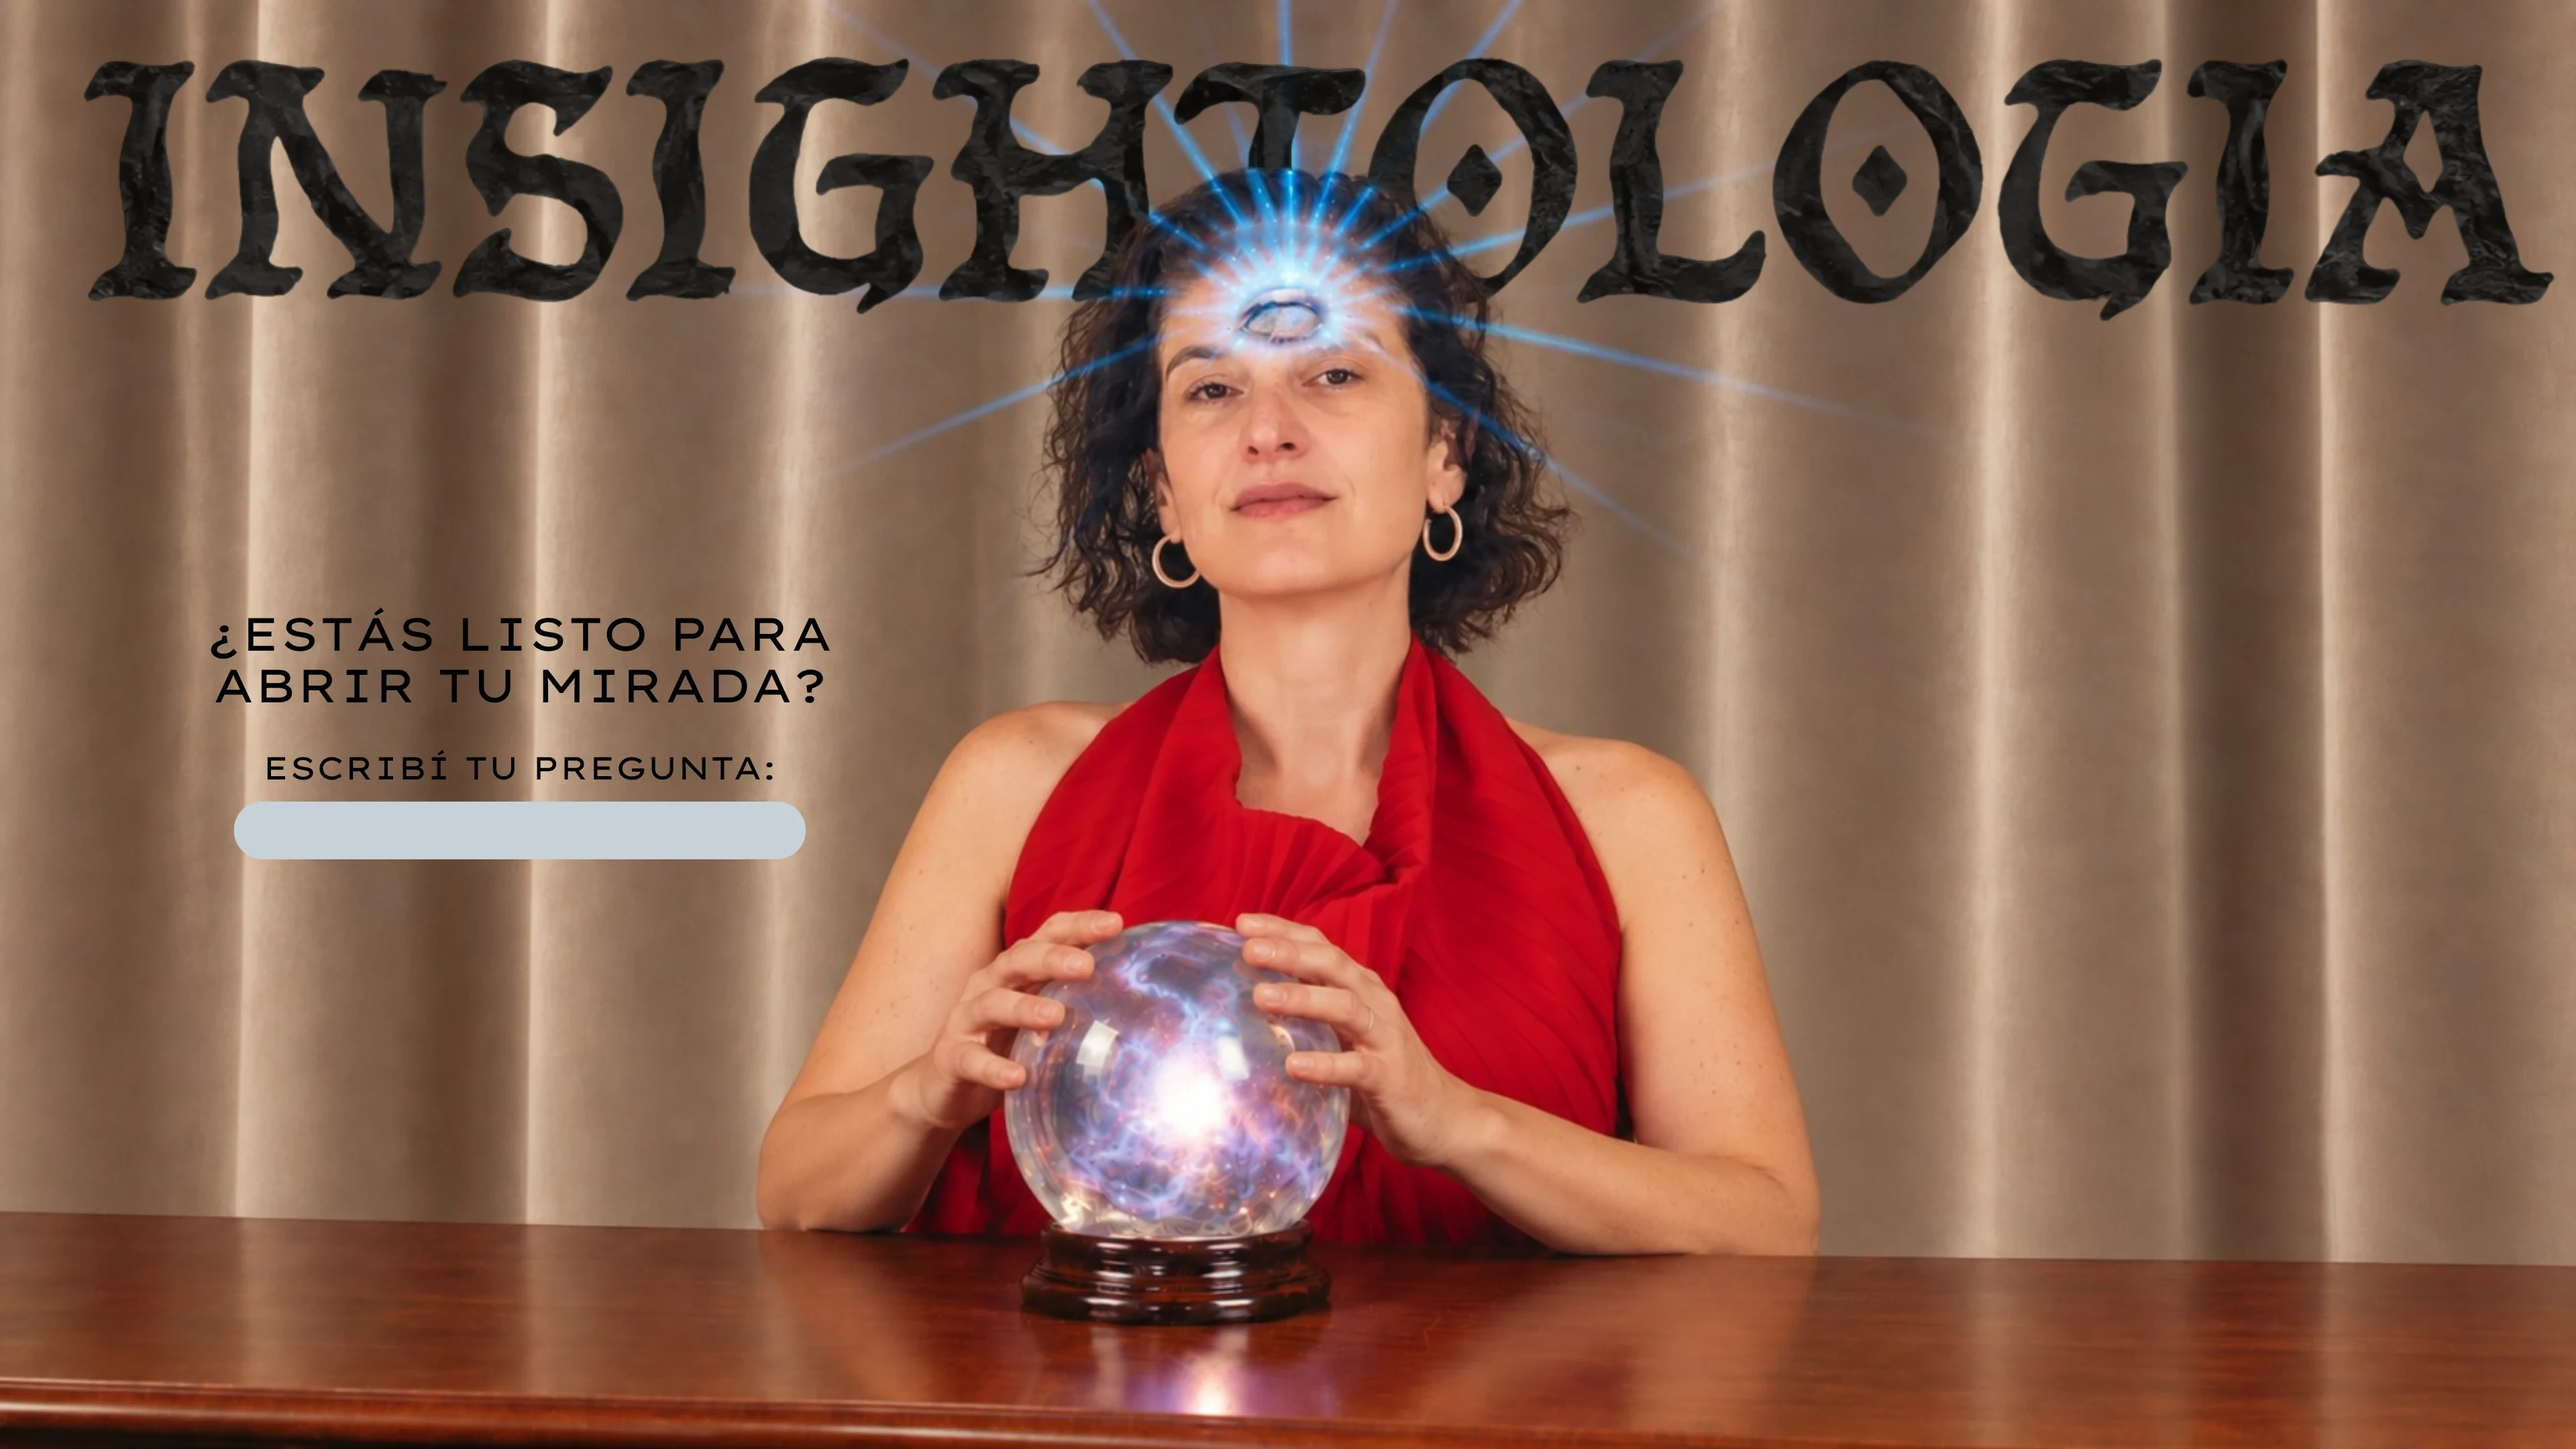
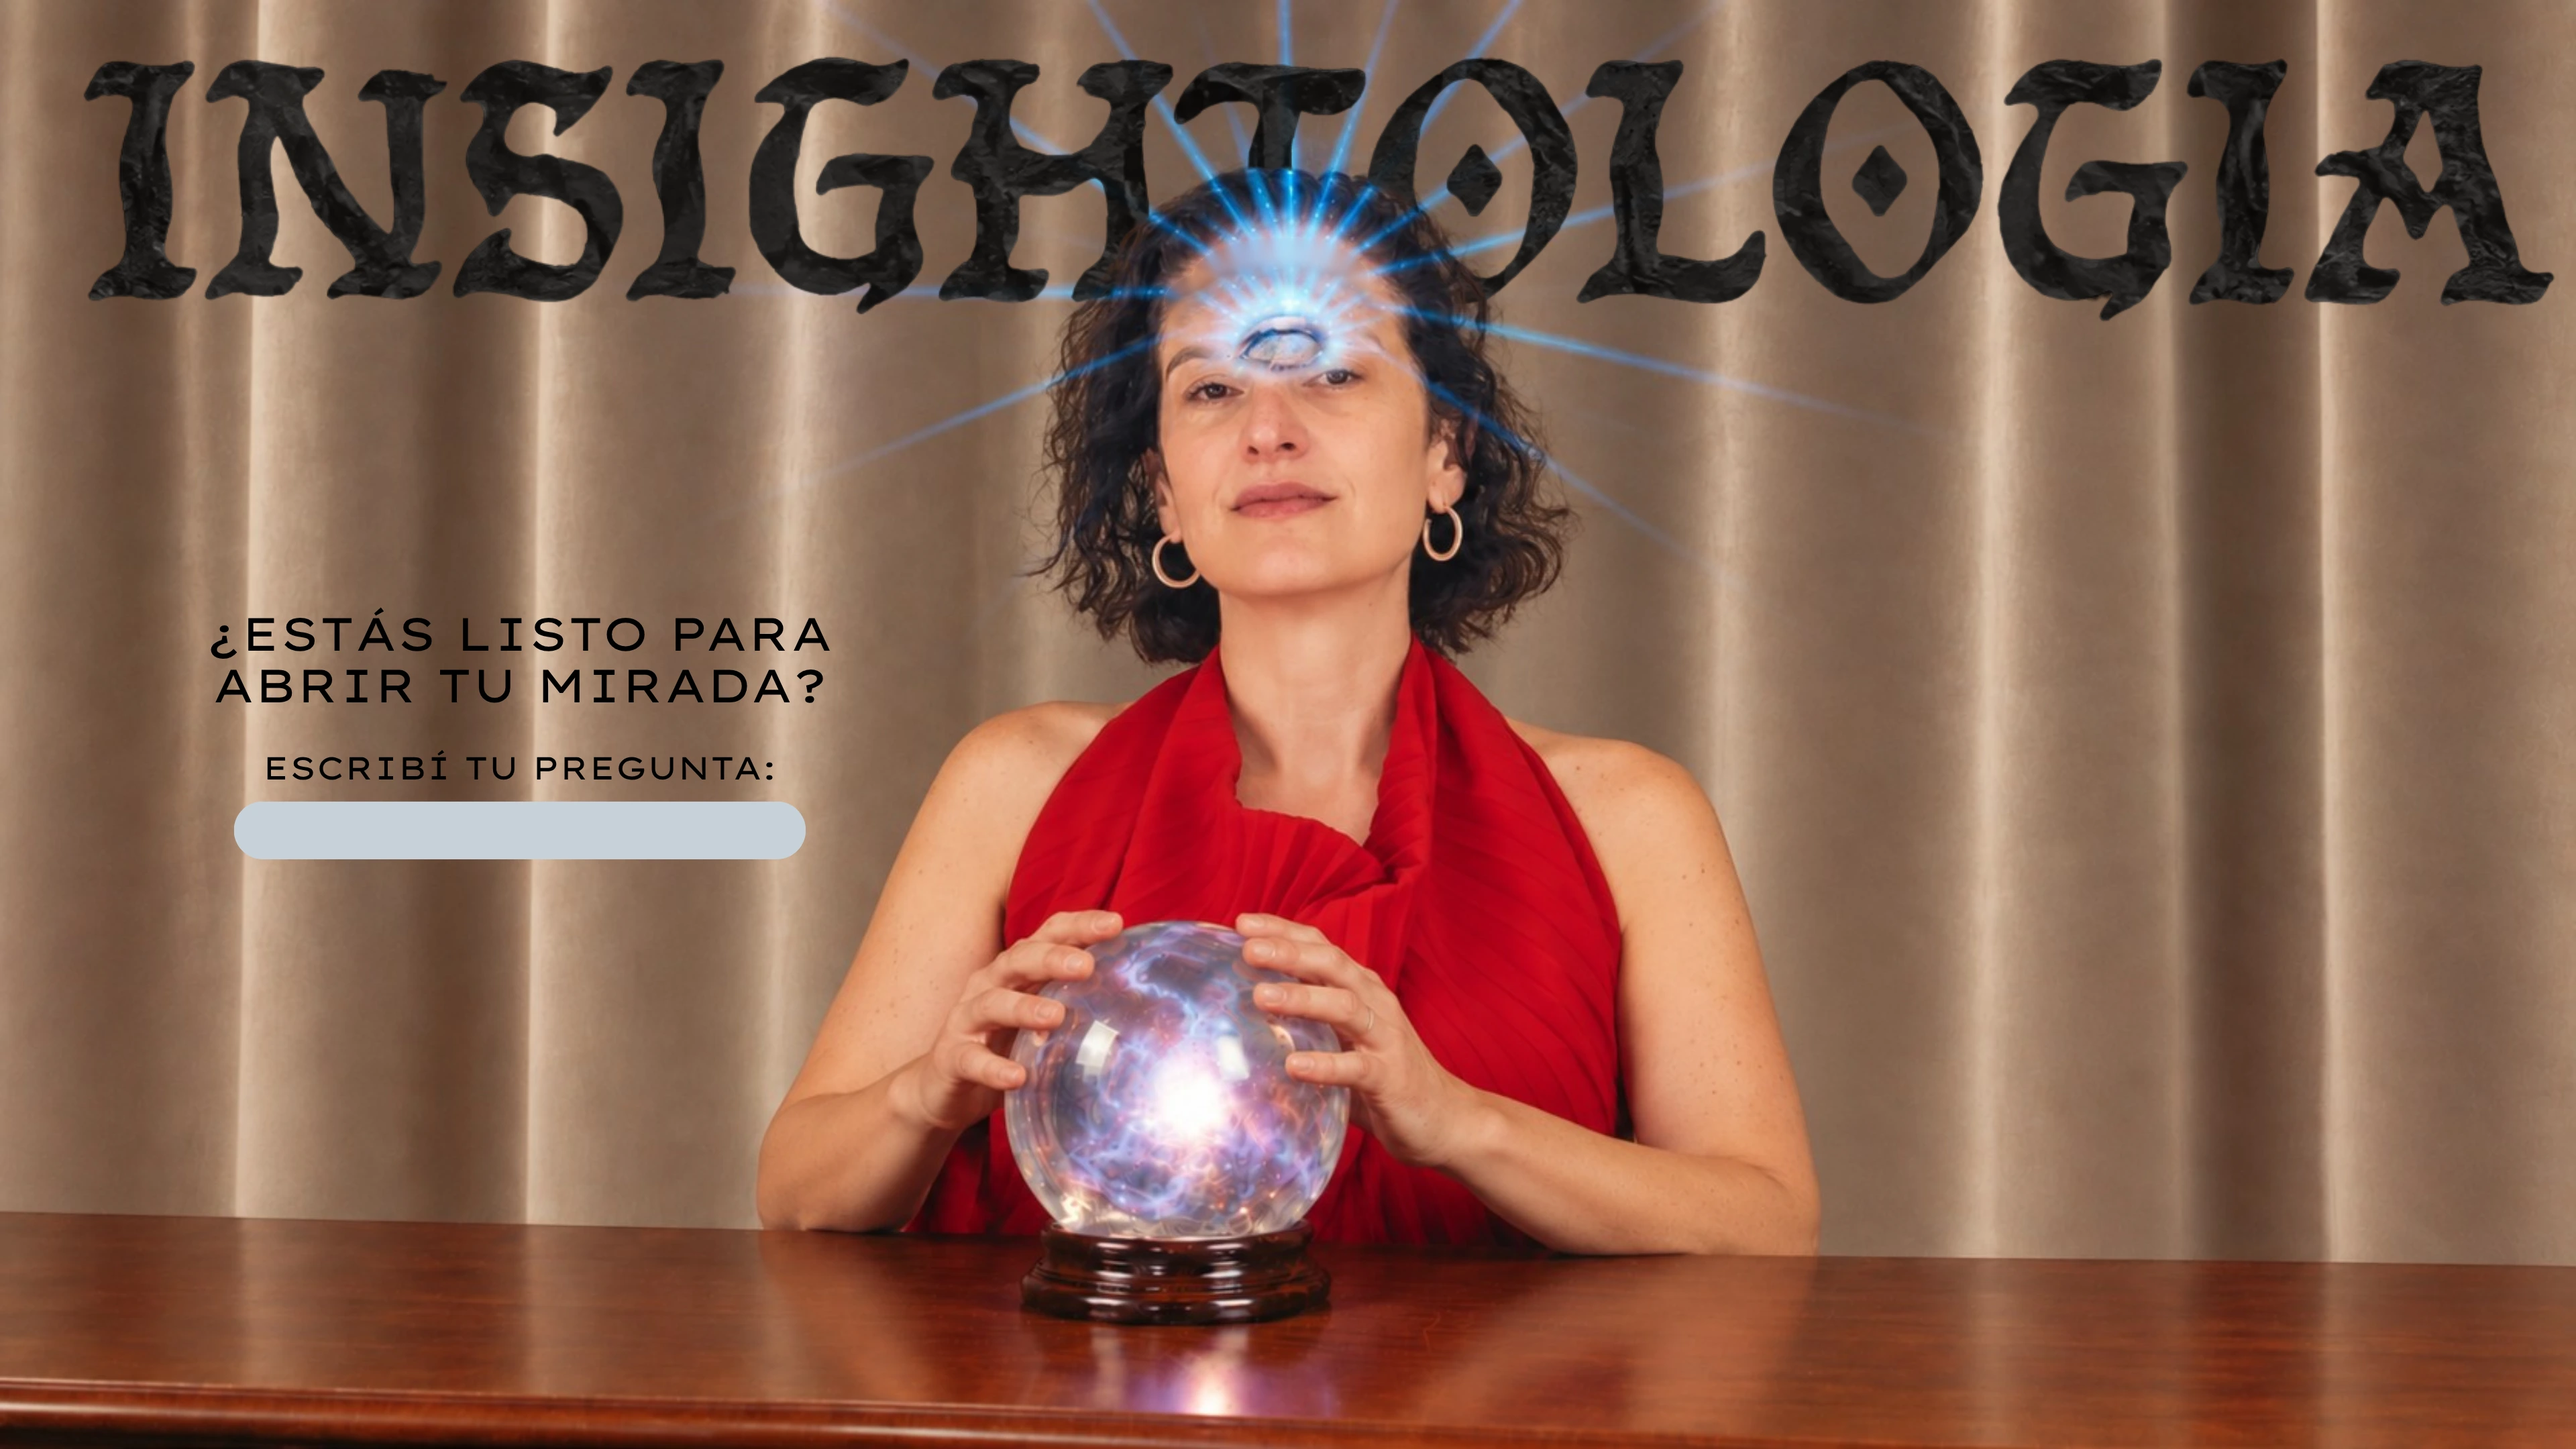
fix: calibrar posicion natural del ojo de visco al centro de la frente y actualizar cache buster

Changed region(s): [[0.4375, 0.1551, 0.5625, 0.2792]]

diff --git a/app.js b/app.js
@@ -357,10 +357,10 @@ document.addEventListener('DOMContentLoaded', () => {
           {
             id: 'visco',
             name: 'Visco',
-            src: 'assets/escena-visco.webp',
-            srcMobile: 'assets/escena-visco.webp',
+            src: 'assets/escena-visco.webp?v=20261006-01',
+            srcMobile: 'assets/escena-visco.webp?v=20261006-01',
             hands: 'assets/manos-visco.webp',
-            eye: { eyeX: '48.9%', eyeY: '20.9%', pupilX: '49.688%', pupilY: '20.926%', pupilW: '1.641%', pupilH: '2.407%' }
+            eye: { eyeX: '48.9%', eyeY: '22.8%', pupilX: '49.688%', pupilY: '22.824%', pupilW: '1.641%', pupilH: '2.407%' }
           }
         ];
 

diff --git a/config.js b/config.js
@@ -143,14 +143,14 @@ const CONFIG = {
     {
       id: 'visco',
       name: 'Visco',
-      src: 'assets/escena-visco.webp',
-      srcMobile: 'assets/escena-visco.webp',
+      src: 'assets/escena-visco.webp?v=20261006-01',
+      srcMobile: 'assets/escena-visco.webp?v=20261006-01',
       hands: 'assets/manos-visco.webp',
       eye: {
         eyeX: '48.9%',
-        eyeY: '20.9%',
+        eyeY: '22.8%',
         pupilX: '49.688%',
-        pupilY: '20.926%',
+        pupilY: '22.824%',
         pupilW: '1.641%',
         pupilH: '2.407%'
       }

diff --git a/index.html b/index.html
@@ -262,7 +262,7 @@
   <audio id="audio-wind" src="assets/audio/mystic-wind.mp3" loop preload="auto"></audio>
   <audio id="audio-office" src="assets/audio/office-ambience.mp3" loop preload="auto"></audio>
 
-  <script src="config.js?v=20261002-15"></script>
-  <script src="app.js?v=20261002-15"></script>
+  <script src="config.js?v=20261006-01"></script>
+  <script src="app.js?v=20261006-01"></script>
 </body>
 </html>
